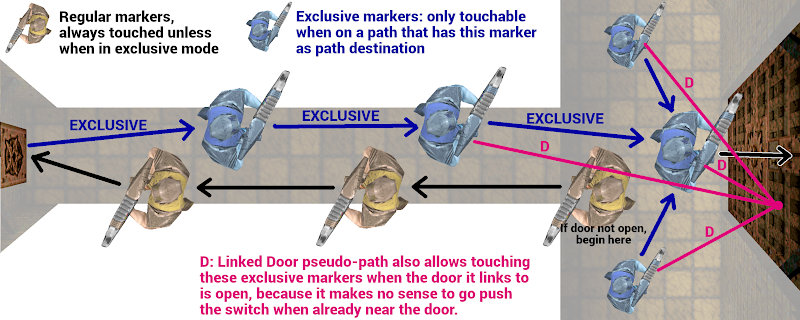
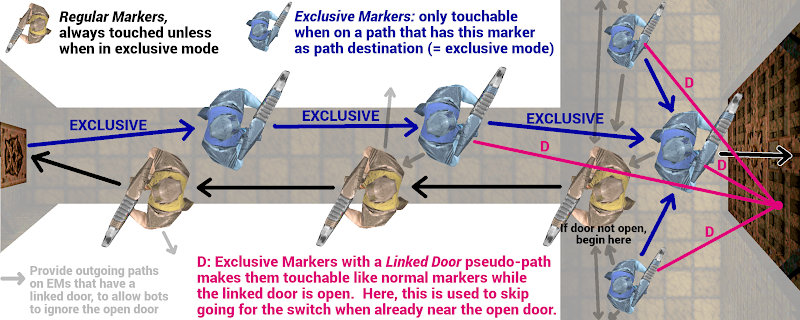
Update waypoint docs image for dm5 exclusive paths
and tweak the paths in `dm5` itself

diff --git a/waypoint/README.md b/waypoint/README.md
@@ -424,14 +424,14 @@ An essential part of making the bot push the switch to open the door, is ensurin
 
 ![The dm5 problem](images/dm5-problem.jpg)
 
-In a map like `dm5` however, this does not suffice because the paths going to and coming from the switch share the same narrow bridge. Normal bot behaviour is to re-evaluate paths each time a marker is touched. If we would simply create a loop with 2 one-way paths, then when running towards the switch and touching a marker on the return path, the only allowed path is back and vice versa. In other words, the bot would keep yo-yoing between markers from both paths, and go nowhere.  
+In a map like `dm5` however, this does not suffice because the paths going to and coming from the switch share the same narrow bridge. Normal bot behaviour is to touch every marker and re-evaluate paths each time a marker is touched. If we would simply create a loop with 2 one-way paths, then when running towards the switch and touching a marker on the return path, the only allowed path is back and vice versa. In other words, the bot would keep yo-yoing between markers from both paths, and go nowhere.  
 Also, if the door is already open, we don't want the bot to make the detour via the switch.
 
 The v2 Frogbot offers a solution for this scenario, consisting of 2 parts:
 1. **Exclusive node** marker type.  
    Set this on the markers of the one-way path going from the switch to the door. As with the other node types, set display mode `Z` to “Display type,” and use `V` to select `exclusive node`. Then activate the marker and right-click (`MOUSE2`).
 2. **Linked door** pseudo-path mode.  
-   Connect a `linked door` path between the exclusive markers nearest to the door, towards (one of) the door's marker(s). As often, `NOCLIP` and closest marker mode are your friends here because the door marker will likely be inside a wall. Only do this for the exclusive markers closest to the door—if the bot is near the switch anyway, it is better to again push it.
+   Connect a `linked door` path from the exclusive markers nearest to the door, towards the door's marker (or one of them, if there are multiple). As often, `NOCLIP` and closest marker mode are your friends here because the door marker will likely be inside a wall. Only do this for the exclusive markers closest to the door—if the bot is near the switch anyway, it is better to again go push it.
 
 This works as follows. The bot will:
 - ignore touching an `exclusive node` marker, _unless:_
@@ -443,7 +443,7 @@ This works as follows. The bot will:
 
 If you look at the `dm5` waypoints or the above diagram, you will notice that 2 extra exclusive markers with `linked door` have been placed to make bots approaching from other directions immediately go through the door when someone else has opened it for them. Same for `ultrav`.  
 When adding such exclusive markers with `linked door,` it is important to provide **outgoing paths** from those markers towards nearby normal markers, to allow the bot to continue on its path when it touches such an EM while it has no intention of going through the door. If you forget to do this, you may see the bot attempting to exit the exclusive zone and then being “sucked back in” and being unable to exit the area. Again, see `dm5` as example.  
-To reduce clutter in work-in-progress, it is recommended to first set up, test, and tweak only the paths between exclusive markers. When everything looks good, add extra outgoing paths on markers that have a linked door.
+To reduce work-in-progress clutter, it is recommended to first set up, test, and tweak only the setup needed to enter and exit the special zone. Only when everything looks good, add the extra outgoing paths on markers that have a linked door, to prevent bots from inadvertently being sucked into the zone when they merely wanted to continue on their path.
 
 This is a complicated thing to set up, and it must be double-checked and tested for mistakes, but the end result is well worth it. It helps a lot to draw a diagram of the markers and how they must be set up, as in the example above.
 
